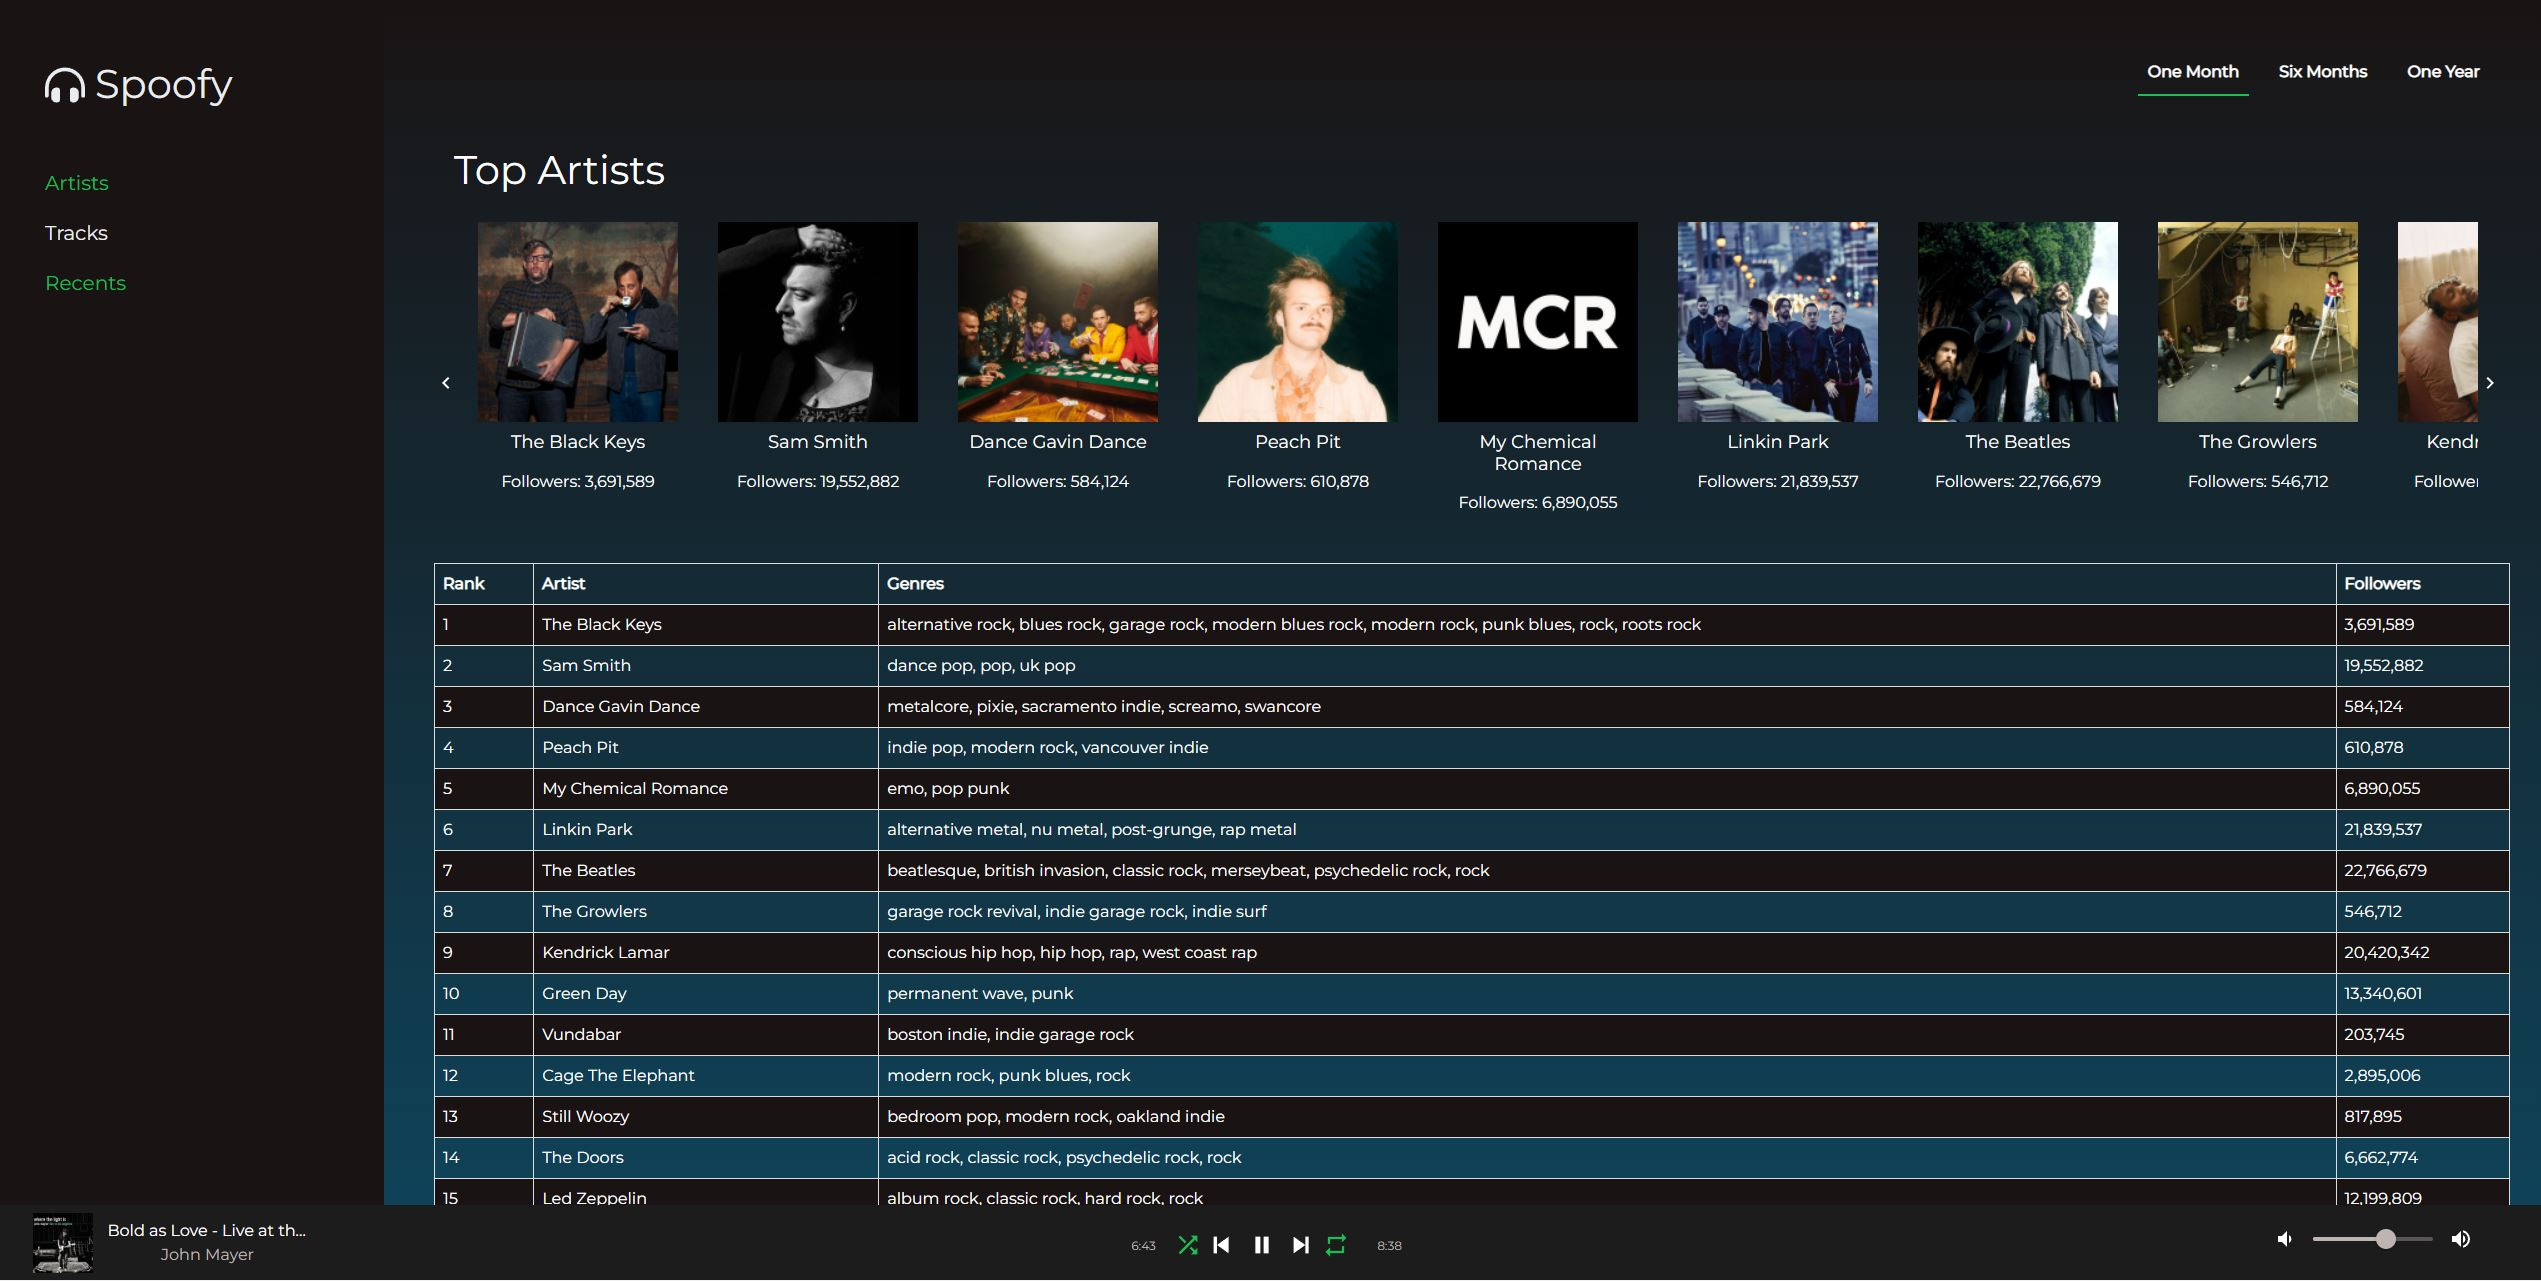
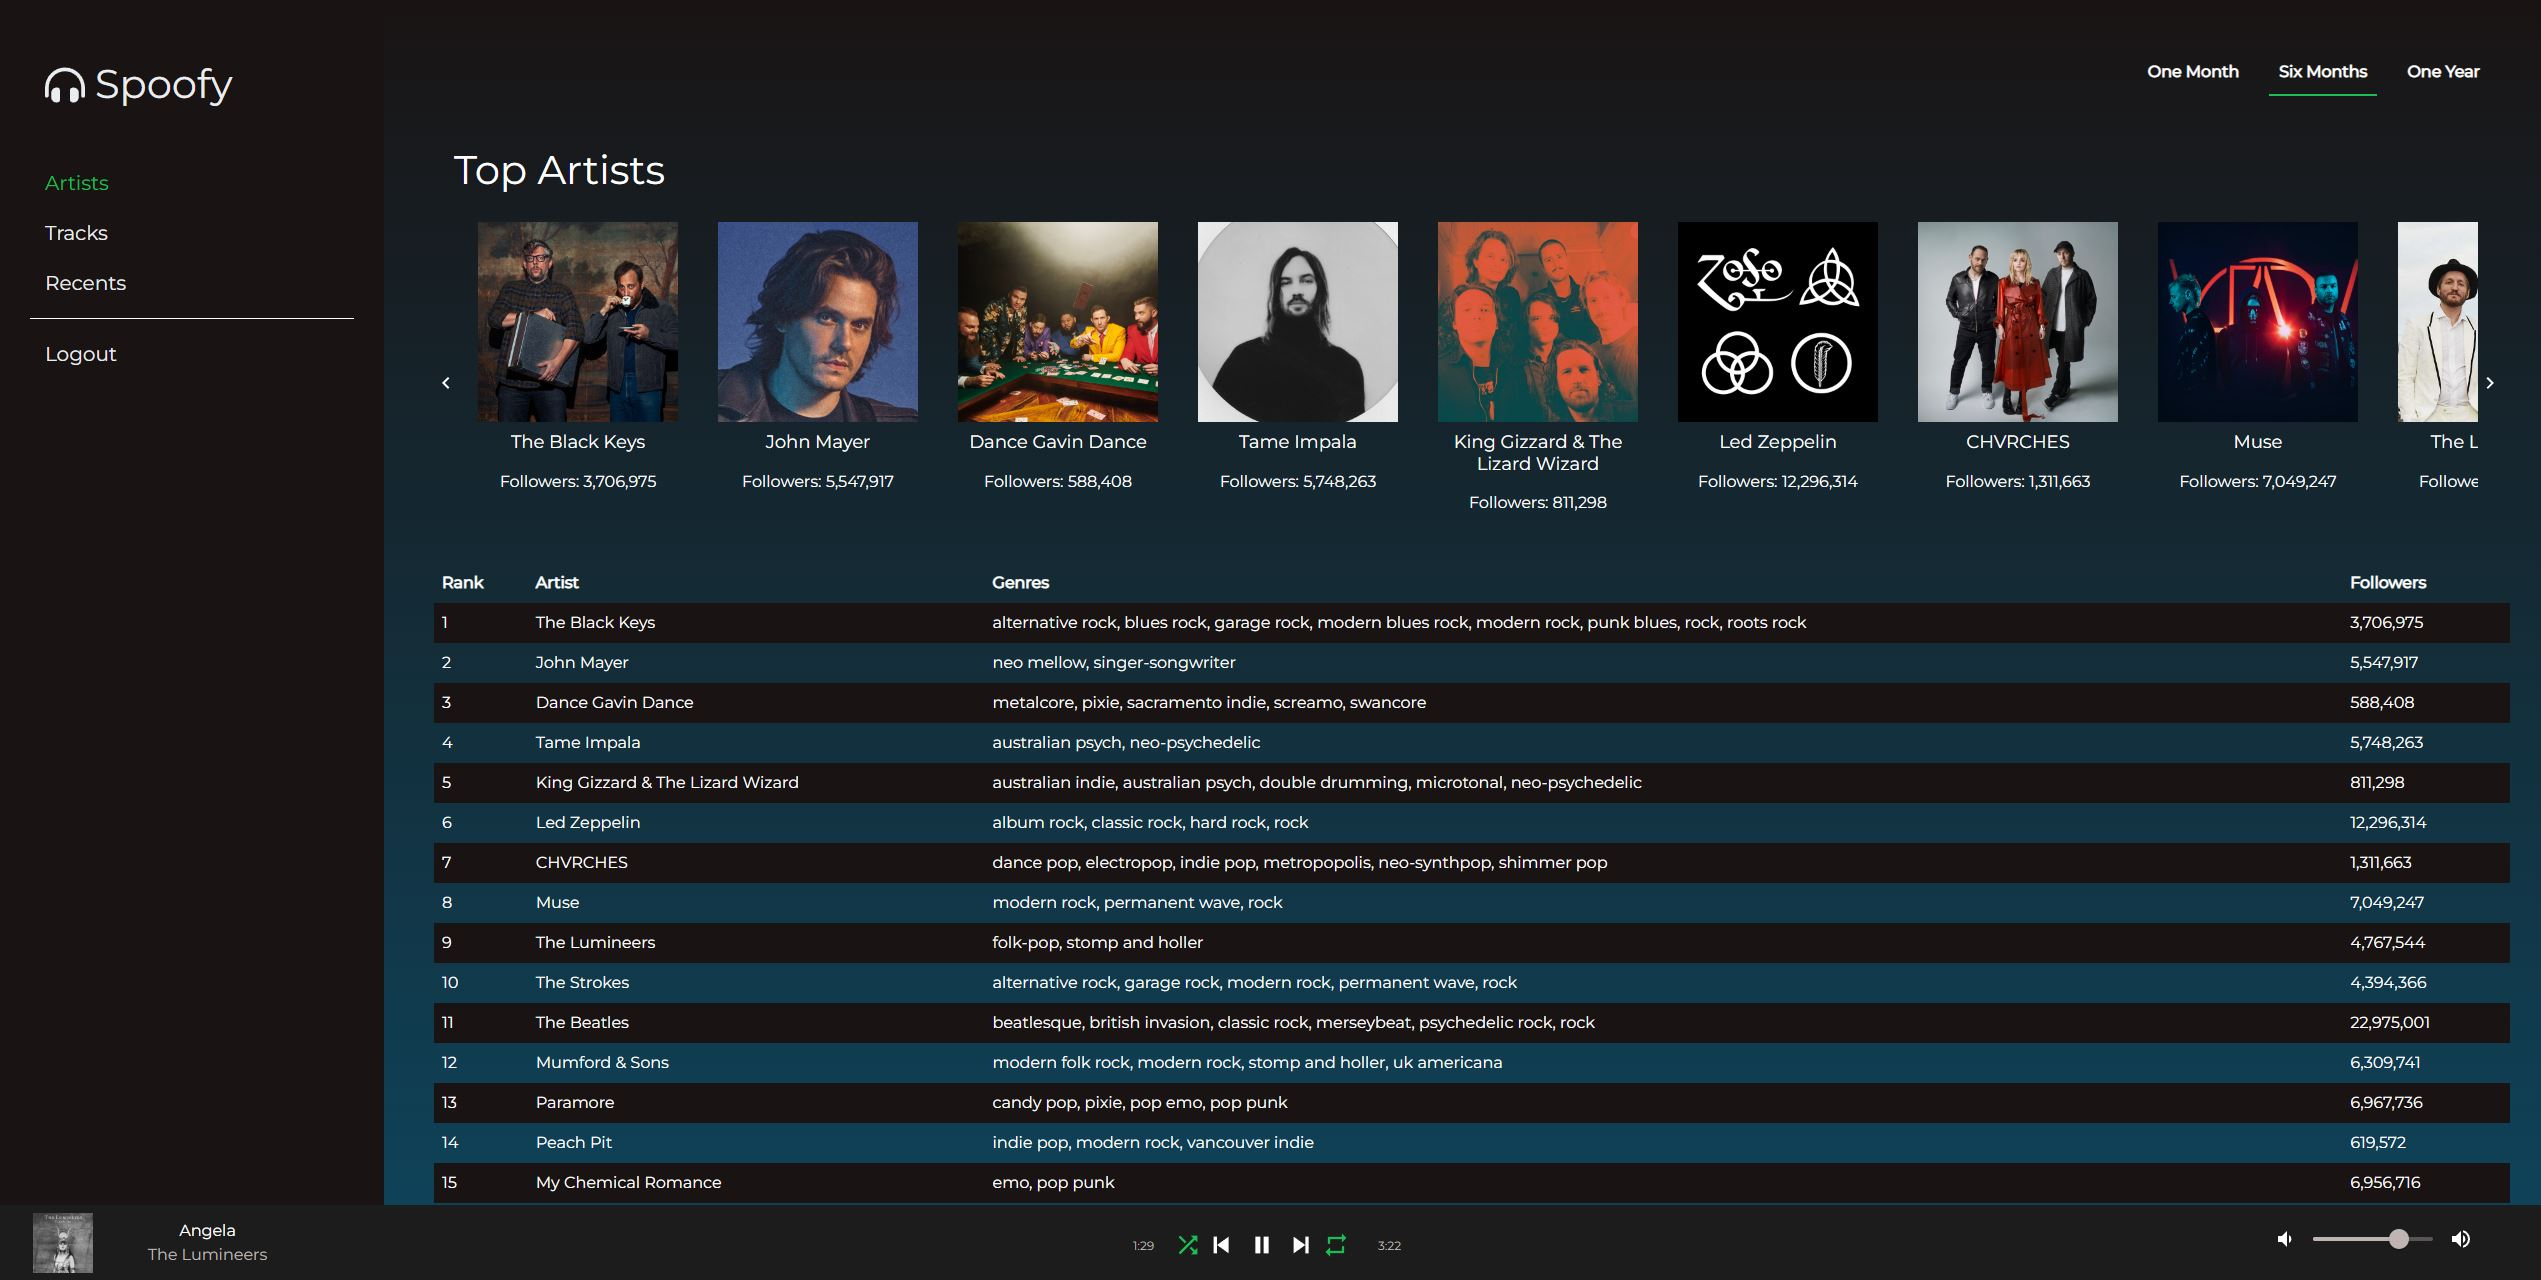
Got example up, logout working

diff --git a/src/Components/Sidebar.js b/src/Components/Sidebar.js
@@ -1,15 +1,27 @@
 import React from "react";
-import { useContext } from "react";
+import { useContext, useCallback } from "react";
 import { SpoofyContext } from "../context";
-import { Link } from "react-router-dom";
+import { Link, useNavigate } from "react-router-dom";
 import { FaHeadphonesAlt } from "react-icons/fa";
 import "../CSS/Dashboard.css";
 
 export default function Sidebar({ show }) {
   const { activePage, setActivePage, setLoading } = useContext(SpoofyContext);
+
+  const navigate = useNavigate();
+
+  const HandleLogout = useCallback(
+    window.localStorage.clear(),
+    () =>
+      navigate(`/`, {
+        replace: false,
+      }),
+    [navigate]
+  );
+
   return (
     <section className="sidenav">
-      <ul id="sidebar-list">
+      <ul className="SidebarList">
         <li className="ListHeader">
           <a id="sidebar-link" href="/Dashboard">
             <h1>
@@ -44,7 +56,7 @@ export default function Sidebar({ show }) {
             Tracks
           </Link>
         </li>
-        <li>
+        <li className="RecentsLink">
           <Link
             id={
               activePage === "Recents" ? "sidebar-link-active" : "sidebar-link"
@@ -53,6 +65,15 @@ export default function Sidebar({ show }) {
             onClick={() => setActivePage("Recents")}
           >
             Recents
+          </Link>
+        </li>
+        <li className="LogoutLink">
+          <Link
+            id="sidebar-link"
+            to={{ pathname: "/" }}
+            onClick={() => HandleLogout()}
+          >
+            Logout
           </Link>
         </li>
       </ul>

diff --git a/src/Components/LoginLanding.js b/src/Components/LoginLanding.js
@@ -8,6 +8,7 @@ import Graduation from "../Resources/Graduation.jpg";
 import Innerspeaker from "../Resources/Innerspeaker.jpg";
 import IsThisIt from "../Resources/IsThisIt.jpg";
 import Zeppelin2 from "../Resources/Zeppelin2.jpg";
+import Example from "../Resources/Example.JPG";
 import {
   FaHome,
   FaTwitter,
@@ -83,6 +84,7 @@ export default function LoginLanding() {
           <section id="Example" className="ExampleSection">
             <div className="Example">
               <h1>Track your personal favorite songs and artists</h1>
+              <img className="ExampleImage" src={Example} alt="Example" />
             </div>
           </section>
         </Container>

diff --git a/src/CSS/Dashboard.css b/src/CSS/Dashboard.css
@@ -63,7 +63,7 @@
   padding-bottom: 30px;
 }
 
-#sidebar-list {
+.SidebarList {
   padding-left: 0;
   list-style-type: none;
 }
@@ -88,6 +88,15 @@
 
 #sidebar-link:hover {
   color: var(--spotify-green);
+}
+
+.RecentsLink {
+  padding-bottom: 10px;
+}
+
+.LogoutLink {
+  padding-top: 10px;
+  border-top: 1px solid white;
 }
 
 /* ---Time Buttons--- */

diff --git a/src/CSS/Login.css b/src/CSS/Login.css
@@ -201,3 +201,8 @@
 .SocialIcons > a:hover {
   color: var(--spotify-green);
 }
+
+.ExampleImage {
+  width: 100%;
+  height: auto;
+}
